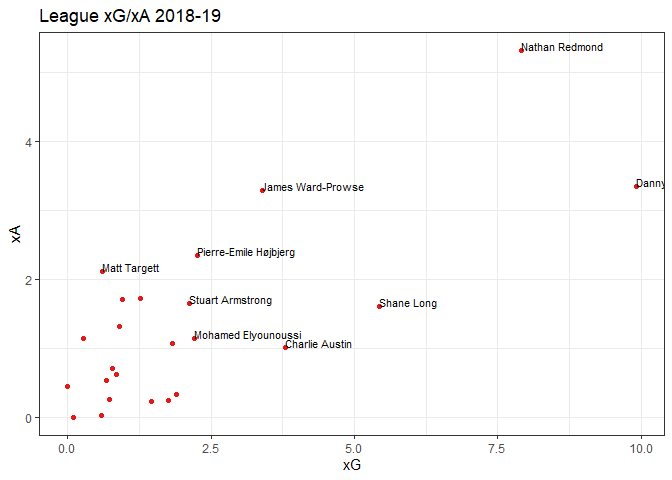
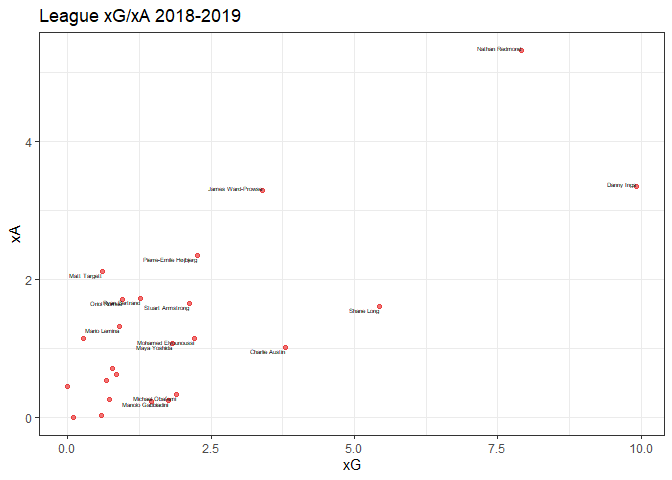
knit

diff --git a/understat-southampton.md b/understat-southampton.md
@@ -26,12 +26,16 @@ get_player_seasons_stats(843) %>%
 
 ## Plots from 2018
 
+### [ggplot2 specs](https://ggplot2.tidyverse.org/articles/ggplot2-specs.html)
+
 ``` r
-get_team_players_stats("Southampton",2018) %>%
+source <- c("Southampton",2018)
+get_team_players_stats(source[[1]],source[[2]]) %>%
   filter(time>0) %>%
-  ggplot(aes(x=factor(reorder(player_name,time)),y=time)) +
+  mutate(player_name=factor(player_name,levels=player_name[order(time)])) %>%
+  ggplot(aes(x=player_name,y=time)) +
   geom_bar(stat="identity",fill="#e61919",width=0.8,alpha=0.6) +
-  labs(title="League minutes 2018-19") +
+  labs(title=paste0("League minutes ",as.integer(source[[2]]),"-",as.integer(source[[2]])+1)) +
   theme(axis.title.x=element_blank(),axis.title.y=element_blank()) +
   coord_flip()
 ```
@@ -39,11 +43,19 @@ get_team_players_stats("Southampton",2018) %>%
 ![](understat-southampton_files/figure-gfm/plots-1.png)<!-- -->
 
 ``` r
-get_team_players_stats("Southampton",2018) %>%
+ggsave(paste0("./plots/","TeamStats_",source[[1]],"_",source[[2]],".jpg"))
+```
+
+    ## Saving 7 x 5 in image
+
+``` r
+source <- c("Southampton",2018)
+get_team_players_stats(source[[1]],source[[2]]) %>%
   filter(xG > 0) %>%
-  ggplot(aes(x=reorder(player_name,xG),y=xG)) +
+  mutate(player_name=factor(player_name,levels=player_name[order(xG)])) %>%
+  ggplot(aes(x=player_name,y=xG)) +
   geom_bar(stat="identity",fill="#e61919",width=0.8,alpha=0.6) +
-  labs(title="League xG 2018-19") +
+  labs(title=paste0("League xG ",as.integer(source[[2]]),"-",as.integer(source[[2]])+1)) +
   theme(axis.title.x=element_blank(),axis.title.y=element_blank()) +
   coord_flip()
 ```
@@ -51,12 +63,50 @@ get_team_players_stats("Southampton",2018) %>%
 ![](understat-southampton_files/figure-gfm/plots-2.png)<!-- -->
 
 ``` r
-get_team_players_stats("Southampton",2018) %>%
+ggsave(paste0("./plots/","PlayerStats_",source[[1]],"_",source[[2]],".jpg"))
+```
+
+    ## Saving 7 x 5 in image
+
+``` r
+source <- c("Southampton",2018)
+get_team_players_stats(source[[1]],source[[2]]) %>%
   filter((xG > 0)|(xA > 0)) %>%
   ggplot(aes(x=xG,y=xA)) +
-  geom_point(colour="#e61919") +
-  geom_text(aes(label=ifelse((xG>2)|(xA>2),player_name,""),hjust=0,vjust=0),size=3) +
-  labs(title="League xG/xA 2018-19",x="xG",y="xA")
+  geom_point(aes(shape="circle"),colour="#e61919",alpha=0.6) +
+  geom_text(aes(label=ifelse(xG+xA>=2,player_name,""),hjust="right",vjust="outward"),size=1.5) +
+  labs(title=paste0("League xG/xA ",as.integer(source[[2]]),"-",as.integer(source[[2]])+1),x="xG",y="xA") +
+  scale_shape_identity()
 ```
 
 ![](understat-southampton_files/figure-gfm/plots-3.png)<!-- -->
+
+``` r
+ggsave(paste0("./plots/","xGxA_",source[[1]],"_",source[[2]],"_Point.jpg"))
+```
+
+    ## Saving 7 x 5 in image
+
+``` r
+source <- c("Southampton",2018)
+get_team_players_stats(source[[1]],source[[2]]) %>%
+  filter((xG > 0)|(xA > 0)) %>%
+  mutate(player_name=factor(player_name,levels=player_name[order(xG)])) %>%
+  gather("xG","xA",key="x",value="xN") %>%
+  select("player_name","x","xN") %>%
+  mutate(x=factor(x,levels=c("xG","xA"))) %>%
+  # View("xGxA")
+  ggplot(aes(x=player_name,y=xN,fill=x)) +
+  geom_bar(stat="identity",position="dodge") +
+  labs(title=paste0("League xG/xA ",as.integer(source[[2]]),"-",as.integer(source[[2]])+1)) +
+  theme(axis.title.x=element_blank(),axis.title.y=element_blank(),legend.title=element_blank()) +
+  coord_flip()
+```
+
+![](understat-southampton_files/figure-gfm/plots-4.png)<!-- -->
+
+``` r
+ggsave(paste0("./plots/","xGxA_",source[[1]],"_",source[[2]],"_Bar.jpg"))
+```
+
+    ## Saving 7 x 5 in image
